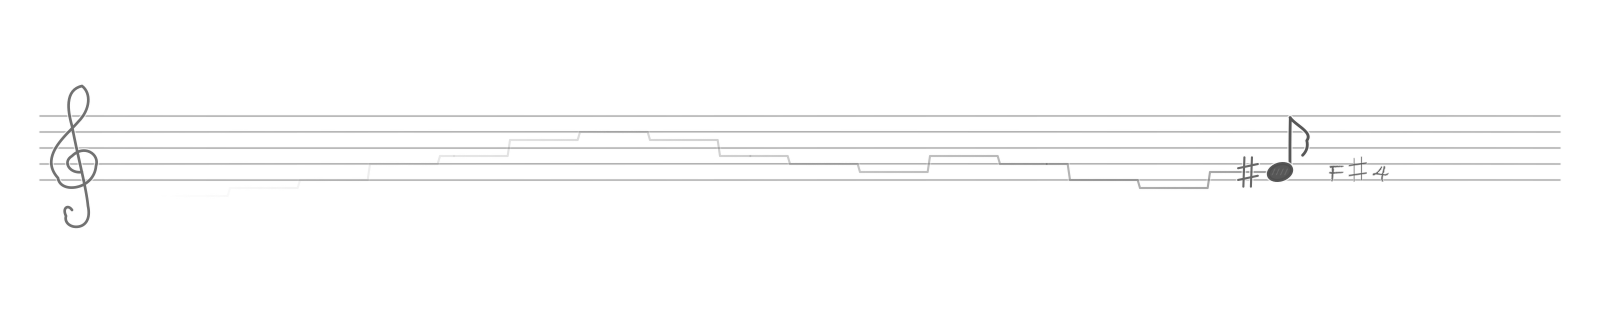
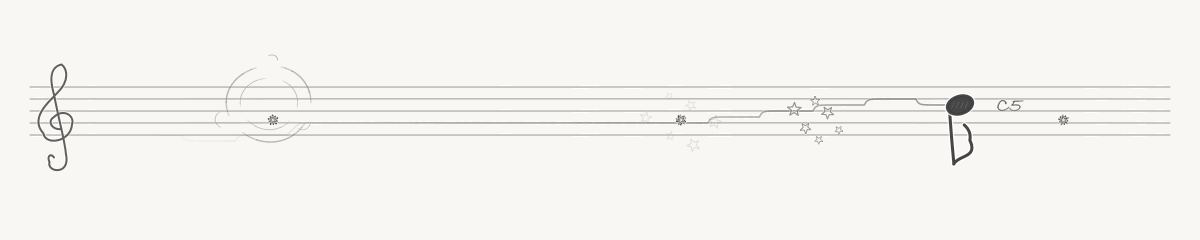
Refresh staff demo images for mixture melody and beat arcs
Render the current native staff with a generated lead/bass/percussion mixture
and concurrent keyboard starbursts. Refresh the README GIF and static preview,
exporting the PNG from the same optimized animation frame for exact matching.
Update descriptions and reproducible render/encoding verification records.

Validation: 250 changing frames, 25fps, 10s loop, approximately 1.87 MB;
8 recognized notes, 20 detected beats, and five keyboard rows represented.
Reviewed native output and verified the static preview matches GIF frame 110.

diff --git a/tools/macos/StaffNoteDemo.swift b/tools/macos/StaffNoteDemo.swift
@@ -33,6 +33,7 @@ enum StaffNoteDemo {
         var minScale = Double.infinity, maxScale = -Double.infinity
         var minAngle = Double.infinity, maxAngle = -Double.infinity
         var minY = Double.infinity, maxY = -Double.infinity
+        var previewScore = -Double.infinity, previewFrame = 0
         var extrema = [String: StaffNoteScene]()
         var extremaStars = [String: [StaffStar]]()
         var extremaRings = [String: [StaffBeatRing]]()
@@ -48,9 +49,13 @@ enum StaffNoteDemo {
                 let hz = 440 * pow(2, (midi - 69) / 12)
                 let articulation = max(0, min(1, beat / 0.012, (0.5 - beat) / 0.035))
                 let dynamics = 0.065 * pow(10, 0.5 * sin(2 * .pi * time / 2))
-                let voice = dynamics * articulation * (sin(2 * .pi * hz * time) +
+                let lead = dynamics * articulation * (sin(2 * .pi * hz * time) +
                     0.45 * sin(4 * .pi * hz * time) + 0.22 * sin(6 * .pi * hz * time))
-                left.append(Float(voice)); right.append(Float(voice * 0.96))
+                let bass = 0.022 * exp(-beat / 0.10) * sin(2 * .pi * 110 * time)
+                let hash = UInt64(index) &* 6364136223846793005 &+ 1442695040888963407
+                let noise = (Double(hash >> 32) / Double(UInt32.max) * 2 - 1) * 0.012 * exp(-beat / 0.018)
+                left.append(Float(lead + bass + noise))
+                right.append(Float(lead * 0.96 + bass - noise * 0.7))
             }
             let block = AudioPCMBlock(channels: [left, right], sampleRate: rate, isInterleaved: false)
             var beats = [AudioBeatEvent]()
@@ -84,6 +89,14 @@ enum StaffNoteDemo {
             if stars.hasLiveStars { starFrames += 1 }
             if !beatRings.rings.isEmpty { ringFrames += 1 }
             if let name = scene.pitch?.name { names.insert(name) }
+            // Pick an actual rendered instant with readable music and visible input effects.
+            let score = stars.stars.reduce(0.0) { $0 + $1.opacity } +
+                beatRings.rings.reduce(0.0) { $0 + $1.opacity * $1.radius * 0.2 }
+            if score > previewScore {
+                previewScore = score; previewFrame = rendered
+                extrema["overview"] = scene; extremaStars["overview"] = stars.stars
+                extremaRings["overview"] = beatRings.rings
+            }
             if scene.scale < minScale { minScale = scene.scale; extrema["small"] = scene; extremaStars["small"] = stars.stars; extremaRings["small"] = beatRings.rings }
             if scene.scale > maxScale { maxScale = scene.scale; extrema["large"] = scene; extremaStars["large"] = stars.stars; extremaRings["large"] = beatRings.rings }
             if scene.swayAngle < minAngle { minAngle = scene.swayAngle; extrema["left"] = scene; extremaStars["left"] = stars.stars; extremaRings["left"] = beatRings.rings }
@@ -109,8 +122,9 @@ enum StaffNoteDemo {
             try RenderDemo.writePNG(image, to: path)
         }
         let report: [String: Any] = [
-            "source": "generated PCM and invented physical key events; production audio analyzers, keyboard channel, star simulation and retained native layers; no capture or event injection",
+            "source": "generated lead, bass and percussion mixture plus invented physical key events; production audio analyzers, keyboard channel, star simulation and retained native layers; no capture or event injection",
             "width": width, "height": height, "frames": rendered, "fps": fps,
+            "staticPreviewFrame": previewFrame, "mixtureComponents": ["harmonic lead", "bass", "percussive noise"],
             "durationSeconds": Double(count) / fps, "loop": "infinite", "background": "plain paper",
             "notes": names.sorted(), "onsets": onsetCount, "noteCenterX": StaffNoteScene.noteX,
             "scaleRange": [minScale, maxScale], "swayDegrees": [minAngle * 180 / .pi, maxAngle * 180 / .pi],

diff --git a/scripts/prepare-demo.py b/scripts/prepare-demo.py
@@ -65,6 +65,16 @@ def main():
     assert set(durations) == {40} and sum(durations) == 10_000
     assert min(changes) > 0 and temporary.stat().st_size < 5_000_000
     os.replace(temporary, output)
+    if size == (1200, 240):
+        # Export the chosen frame after GIF color conversion so the README PNG
+        # and animation use exactly the same pixels and palette.
+        render = json.loads(source.with_suffix(".json").read_text())
+        preview_index = render["staticPreviewFrame"]
+        with Image.open(output) as image:
+            image.seek(preview_index)
+            preview = image.convert("RGB")
+            preview.info.clear()
+            preview.save(output.with_suffix(".png"))
     report = {"frames": len(frames), "size": list(size), "durationSeconds": 10,
               "fps": 25, "bytes": output.stat().st_size, "loop": "infinite",
               "metadata": "format and animation fields only; inherited metadata removed",

diff --git a/README.md b/README.md
@@ -37,9 +37,16 @@
 
 直接识别**混音中最突出的旋律**：综合基频与泛音强度、音高可靠性及前后连续性，歌声和主奏乐器都可以驱动音符。构建和运行均使用原生频谱算法。对比结果及限制见[混音主旋律](docs/predominant-mixture.md)。
 
-![五线谱：音符随音乐倾摆缩放，键盘对应位置同时散出五角星](docs/assets/miucs-staff-note.gif)
+![五线谱：混音主旋律驱动音符和轨迹，按键星爆与随机节拍轻弧同时展开](docs/assets/miucs-staff-note.gif)
 
-> 合成音频与预设按键同时经过生产分析、事件通道、动画和原生图层绘制，展示五行键位、多键同按和长按星爆；没有录制真实输入或桌面。纸色背景用于衬托透明线稿；GIF 无声，25fps、10 秒循环，演示帧率不代表应用的屏幕刷新率。
+> 合成主奏、低音和打击声组成混音，与预设按键同时经过生产分析、事件通道、动画和原生图层绘制，展示音符倾摆缩放、旋律轨迹、五行键位星爆及随机节拍轻弧；没有录制真实输入或桌面。纸色背景用于衬托透明线稿；GIF 无声，25fps、10 秒循环，演示帧率不代表应用的屏幕刷新率。
+
+<details>
+<summary>查看当前版本的静态效果图</summary>
+
+![五线谱静态效果：主旋律轨迹、音符、键盘星爆与节拍轻弧](docs/assets/miucs-staff-note.png)
+
+</details>
 
 默认 **800 × 160**，音符位于画面宽度的约 80% 处。固定高音谱号和 8 点线距，每个音高始终对应同一个谱位，不根据前后乐段改变显示八度或整体移动轨迹；音名保留真实音高。只绘制五条主线，不再显示额外的高低音加线；同一自然音与其升音同谱位，通过升号区分，八度保留真实距离。
 
@@ -54,7 +61,7 @@
 
 音符固定为八分音符造型，不推断时值、调号、拍号或和弦，也不生成完整乐谱。默认石墨灰，支持全局五种笔色。
 
-节拍识别通常需要先播放几秒；弱节奏或不稳定的段落会暂停圆环，静音时停止。它独立于歌声音高识别，纯伴奏也可触发。详见[节拍说明](docs/beat-tracking.md)。
+节拍识别通常需要先播放几秒；弱节奏或不稳定的段落会暂停圆环，静音时停止。它独立于主旋律音高识别，纯伴奏也可触发。详见[节拍说明](docs/beat-tracking.md)。
 
 实心符头中心是倾摆支点，左右位置固定；高低位置由旋律决定。浅色符头标示准确谱位，真实音名保持显示。轨迹末端的 10 点范围平滑接到移动中的符头，记录的音高不受倾摆或缩放影响。
 
@@ -174,7 +181,7 @@ zsh scripts/measure-performance.sh --staff-keyboard-cadence build/staff-keyboard
 zsh scripts/render-demo.sh --staff
 ```
 
-导出使用生成的音频、预设物理按键和生产绘制代码，输出 `docs/assets/miucs-staff-note.gif`，无需播放声音或录制屏幕。帧数、动作范围和编码检查见 [演示验证记录](docs/validation/staff-demo.json)。
+导出使用生成的音频、预设物理按键和生产绘制代码，输出 `docs/assets/miucs-staff-note.gif` 和同一演示时刻的静态效果图 `docs/assets/miucs-staff-note.png`，无需播放声音或录制屏幕。帧数、动作范围和编码检查见 [演示验证记录](docs/validation/staff-demo.json)。
 
 独立数值参考与契约验证使用 Python 开发依赖，可通过 `python3 -m pip install -r tests/requirements.txt` 安装；应用运行不依赖 Python。
 
